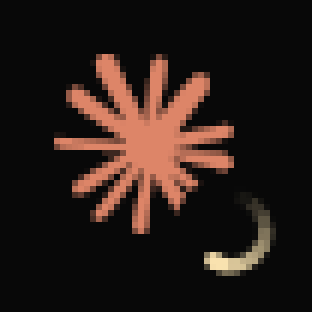
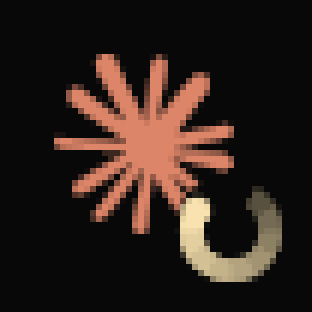
feat(ui): make the working comet heavier and smoother
At real size the first comet was too light to notice in either theme:
on a 22 px avatar the ring was under 7 px across with a 1.3 px stroke,
and only about 75 degrees of the tail stayed above 30% ink, so the turn
barely registered.

The comet now has a thicker stroke (3.2 instead of 2.1), a larger head,
and a 270-degree tail that fades from solid to 20% instead of to nothing.
The working mark alone fills the whole badge disc; the still marks keep
their margin. The badge clock runs at 24 steps per turn instead of 12,
so the larger mark turns smoothly rather than ticking. Only visible
badges still renew the wake.

The comet shape test now also requires the end of the tail to stay
visible, and the refresh-rate tests read the step count from the clock.

Changed region(s): [[0.5769, 0.5769, 0.9231, 0.9231]]

diff --git a/src/ui/app.rs b/src/ui/app.rs
@@ -10488,6 +10488,8 @@ mod run_badge_gpui_tests {
     use gpui::{Entity, TestAppContext, VisualTestContext};
     use std::time::Duration;
 
+    const STEPS: u64 = crate::ui::tab_strip::RUN_BADGE_STEPS as u64;
+
     fn working_window(
         cx: &mut TestAppContext,
         count: usize,
@@ -10630,20 +10632,20 @@ mod run_badge_gpui_tests {
     }
 
     #[gpui::test]
-    fn visible_working_badge_refreshes_at_twelve_steps_per_second(cx: &mut TestAppContext) {
+    fn visible_working_badge_refreshes_once_per_step(cx: &mut TestAppContext) {
         let (app, mut vcx, _streams) = working_window(cx, 1);
         let draws = draws_over(&mut vcx, 1000);
         assert_eq!(
             app.read_with(&vcx, |app, cx| app.tabs[0].agent_status(cx)),
             Some(AgentStatus::Working)
         );
-        assert_eq!(draws, 12);
+        assert_eq!(draws, STEPS);
     }
 
     #[gpui::test]
     fn several_working_badges_share_the_windows_refresh_rate(cx: &mut TestAppContext) {
         let (_app, mut vcx, _streams) = working_window(cx, 4);
-        assert_eq!(draws_over(&mut vcx, 1000), 12);
+        assert_eq!(draws_over(&mut vcx, 1000), STEPS);
     }
 
     #[gpui::test]
@@ -10677,7 +10679,7 @@ mod run_badge_gpui_tests {
             app.update(&mut vcx, |_, cx| cx.notify());
             vcx.background_executor.run_until_parked();
             draws_over(&mut vcx, 1000);
-            assert_eq!(draws_over(&mut vcx, 1000), 12);
+            assert_eq!(draws_over(&mut vcx, 1000), STEPS);
         }
     }
 
@@ -10698,13 +10700,13 @@ mod run_badge_gpui_tests {
             cx.notify();
         });
         vcx.background_executor.run_until_parked();
-        assert_eq!(draws_over(&mut vcx, 1000), 12);
+        assert_eq!(draws_over(&mut vcx, 1000), STEPS);
         app.update(&mut vcx, |app, cx| app.toggle_left_panel(cx));
         vcx.background_executor.run_until_parked();
         assert_eq!(draws_over(&mut vcx, 1000), 0);
         app.update(&mut vcx, |app, cx| app.toggle_left_panel(cx));
         vcx.background_executor.run_until_parked();
-        assert_eq!(draws_over(&mut vcx, 1000), 12);
+        assert_eq!(draws_over(&mut vcx, 1000), STEPS);
     }
 
     #[gpui::test]
@@ -10721,7 +10723,7 @@ mod run_badge_gpui_tests {
         });
         vcx.background_executor.run_until_parked();
         draws_over(&mut vcx, 1000);
-        assert_eq!(draws_over(&mut vcx, 1000), 12);
+        assert_eq!(draws_over(&mut vcx, 1000), STEPS);
         app.update(&mut vcx, |app, cx| {
             app.sidebar_scroll
                 .set_offset(gpui::point(gpui::px(0.), gpui::px(-10000.)));
@@ -10735,7 +10737,7 @@ mod run_badge_gpui_tests {
             cx.notify();
         });
         vcx.background_executor.run_until_parked();
-        assert_eq!(draws_over(&mut vcx, 1000), 12);
+        assert_eq!(draws_over(&mut vcx, 1000), STEPS);
     }
 
     #[gpui::test]
@@ -10743,9 +10745,9 @@ mod run_badge_gpui_tests {
         let (app, mut vcx, _streams) = working_window(cx, 2);
         app.update(&mut vcx, |app, cx| app.toggle_tab_sidebar(cx));
         vcx.background_executor.run_until_parked();
-        assert_eq!(draws_over(&mut vcx, 1000), 12);
+        assert_eq!(draws_over(&mut vcx, 1000), STEPS);
         vcx.deactivate_window();
-        assert_eq!(draws_over(&mut vcx, 1000), 12);
+        assert_eq!(draws_over(&mut vcx, 1000), STEPS);
     }
 }
 

diff --git a/src/ui/tab_strip.rs b/src/ui/tab_strip.rs
@@ -34,6 +34,9 @@ pub(crate) const GRAB_HANDLE_W: f32 = 80.;
 
 const KEEP_SEGMENTS: usize = 3;
 
+/// Steps per one-second turn of the working badge.
+pub(crate) const RUN_BADGE_STEPS: u128 = 24;
+
 /// A single clock for the window's working badges. Only actual visible paint
 /// renews its one-shot wake, so an idle or unpainted window cannot spin a loop.
 pub(crate) struct RunBadgeAnimation {
@@ -58,7 +61,9 @@ impl RunBadgeAnimation {
     pub(crate) fn begin_frame(&mut self, cx: &App) {
         self.visible = false;
         let elapsed = cx.background_executor().now().duration_since(self.epoch);
-        self.phase = ((elapsed.as_nanos() * 12 / 1_000_000_000) % 12) as f32 / 12.;
+        self.phase = ((elapsed.as_nanos() * RUN_BADGE_STEPS / 1_000_000_000) % RUN_BADGE_STEPS)
+            as f32
+            / RUN_BADGE_STEPS as f32;
     }
 }
 
@@ -1205,7 +1210,9 @@ impl Tty7App {
             .child(
                 gpui::svg()
                     .path(indicator.icon_path())
-                    .size(px(d * 0.9))
+                    // At nine pixels the comet's turn only reads when it
+                    // fills the disc; the still marks keep a margin.
+                    .size(px(if working { d } else { d * 0.9 }))
                     .text_color(indicator.color(surface))
                     .when(working, |icon| {
                         icon.with_transformation(gpui::Transformation::rotate(gpui::percentage(
@@ -1238,8 +1245,8 @@ impl Tty7App {
                                 .now()
                                 .duration_since(state.epoch)
                                 .as_nanos();
-                            let next_step = elapsed * 12 / 1_000_000_000 + 1;
-                            let next = (next_step * 1_000_000_000).div_ceil(12);
+                            let next_step = elapsed * RUN_BADGE_STEPS / 1_000_000_000 + 1;
+                            let next = (next_step * 1_000_000_000).div_ceil(RUN_BADGE_STEPS);
                             let delay = std::time::Duration::from_nanos((next - elapsed) as u64);
                             let owner = state.owner.clone();
                             drop(state);

diff --git a/src/ui/status_indicator.rs b/src/ui/status_indicator.rs
@@ -202,7 +202,7 @@ mod tests {
         // Ink on the track's centre line, `deg` clockwise from twelve o'clock.
         let alpha = |deg: f32| {
             let (sin, cos) = deg.to_radians().sin_cos();
-            let (x, y) = (8. + 5.4 * sin, 8. - 5.4 * cos);
+            let (x, y) = (8. + 5.6 * sin, 8. - 5.6 * cos);
             pixmap
                 .pixel((x * scale) as u32, (y * scale) as u32)
                 .unwrap()
@@ -210,15 +210,20 @@ mod tests {
         };
 
         assert!(alpha(-6.) > 240, "the head is not solid: {}", alpha(-6.));
-        for ahead in [30., 75., 120.] {
+        for ahead in [35., 55., 75.] {
             assert_eq!(alpha(ahead), 0, "ink {ahead}° ahead of the head");
         }
-        let tail = [-12., -62., -112., -162., -187.].map(alpha);
+        let tail = [-15., -75., -135., -195., -255.].map(alpha);
         assert!(
             tail.windows(2).all(|w| w[0] > w[1]),
             "the tail does not fade away from the head: {tail:?}"
         );
-        assert!(tail[4] > 0, "the tail ends before 187°: {tail:?}");
+        // At nine or ten pixels a tail that fades out early leaves only a
+        // speck at the head, and the turning stops being visible.
+        assert!(
+            tail[4] >= 40,
+            "the end of the tail is too faint to see: {tail:?}"
+        );
     }
 
     #[test]
